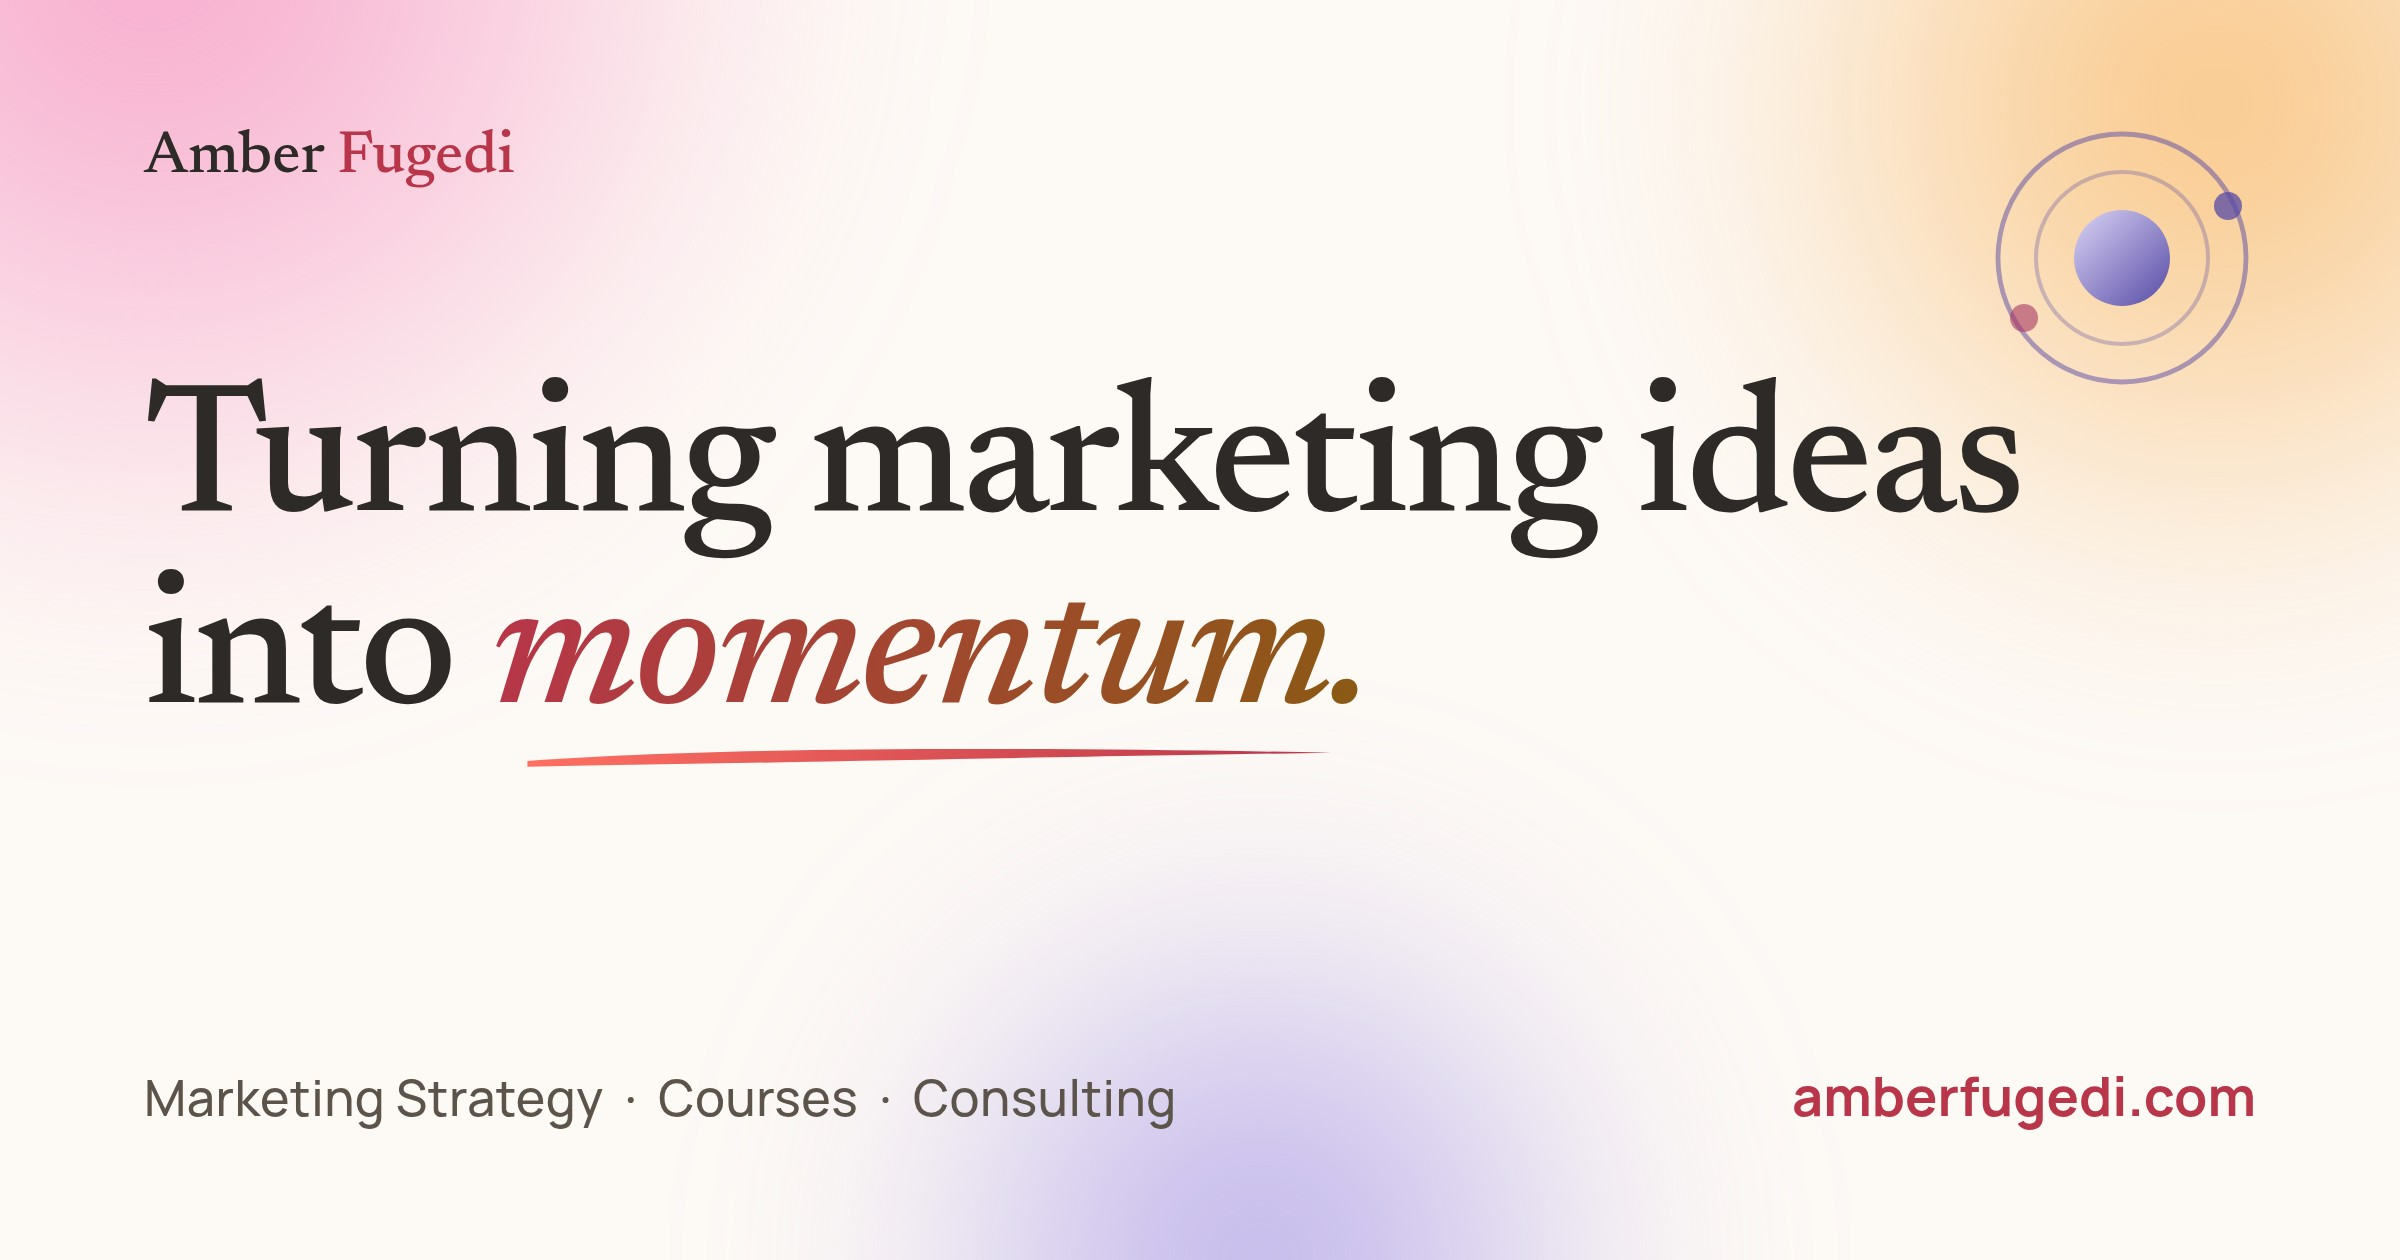
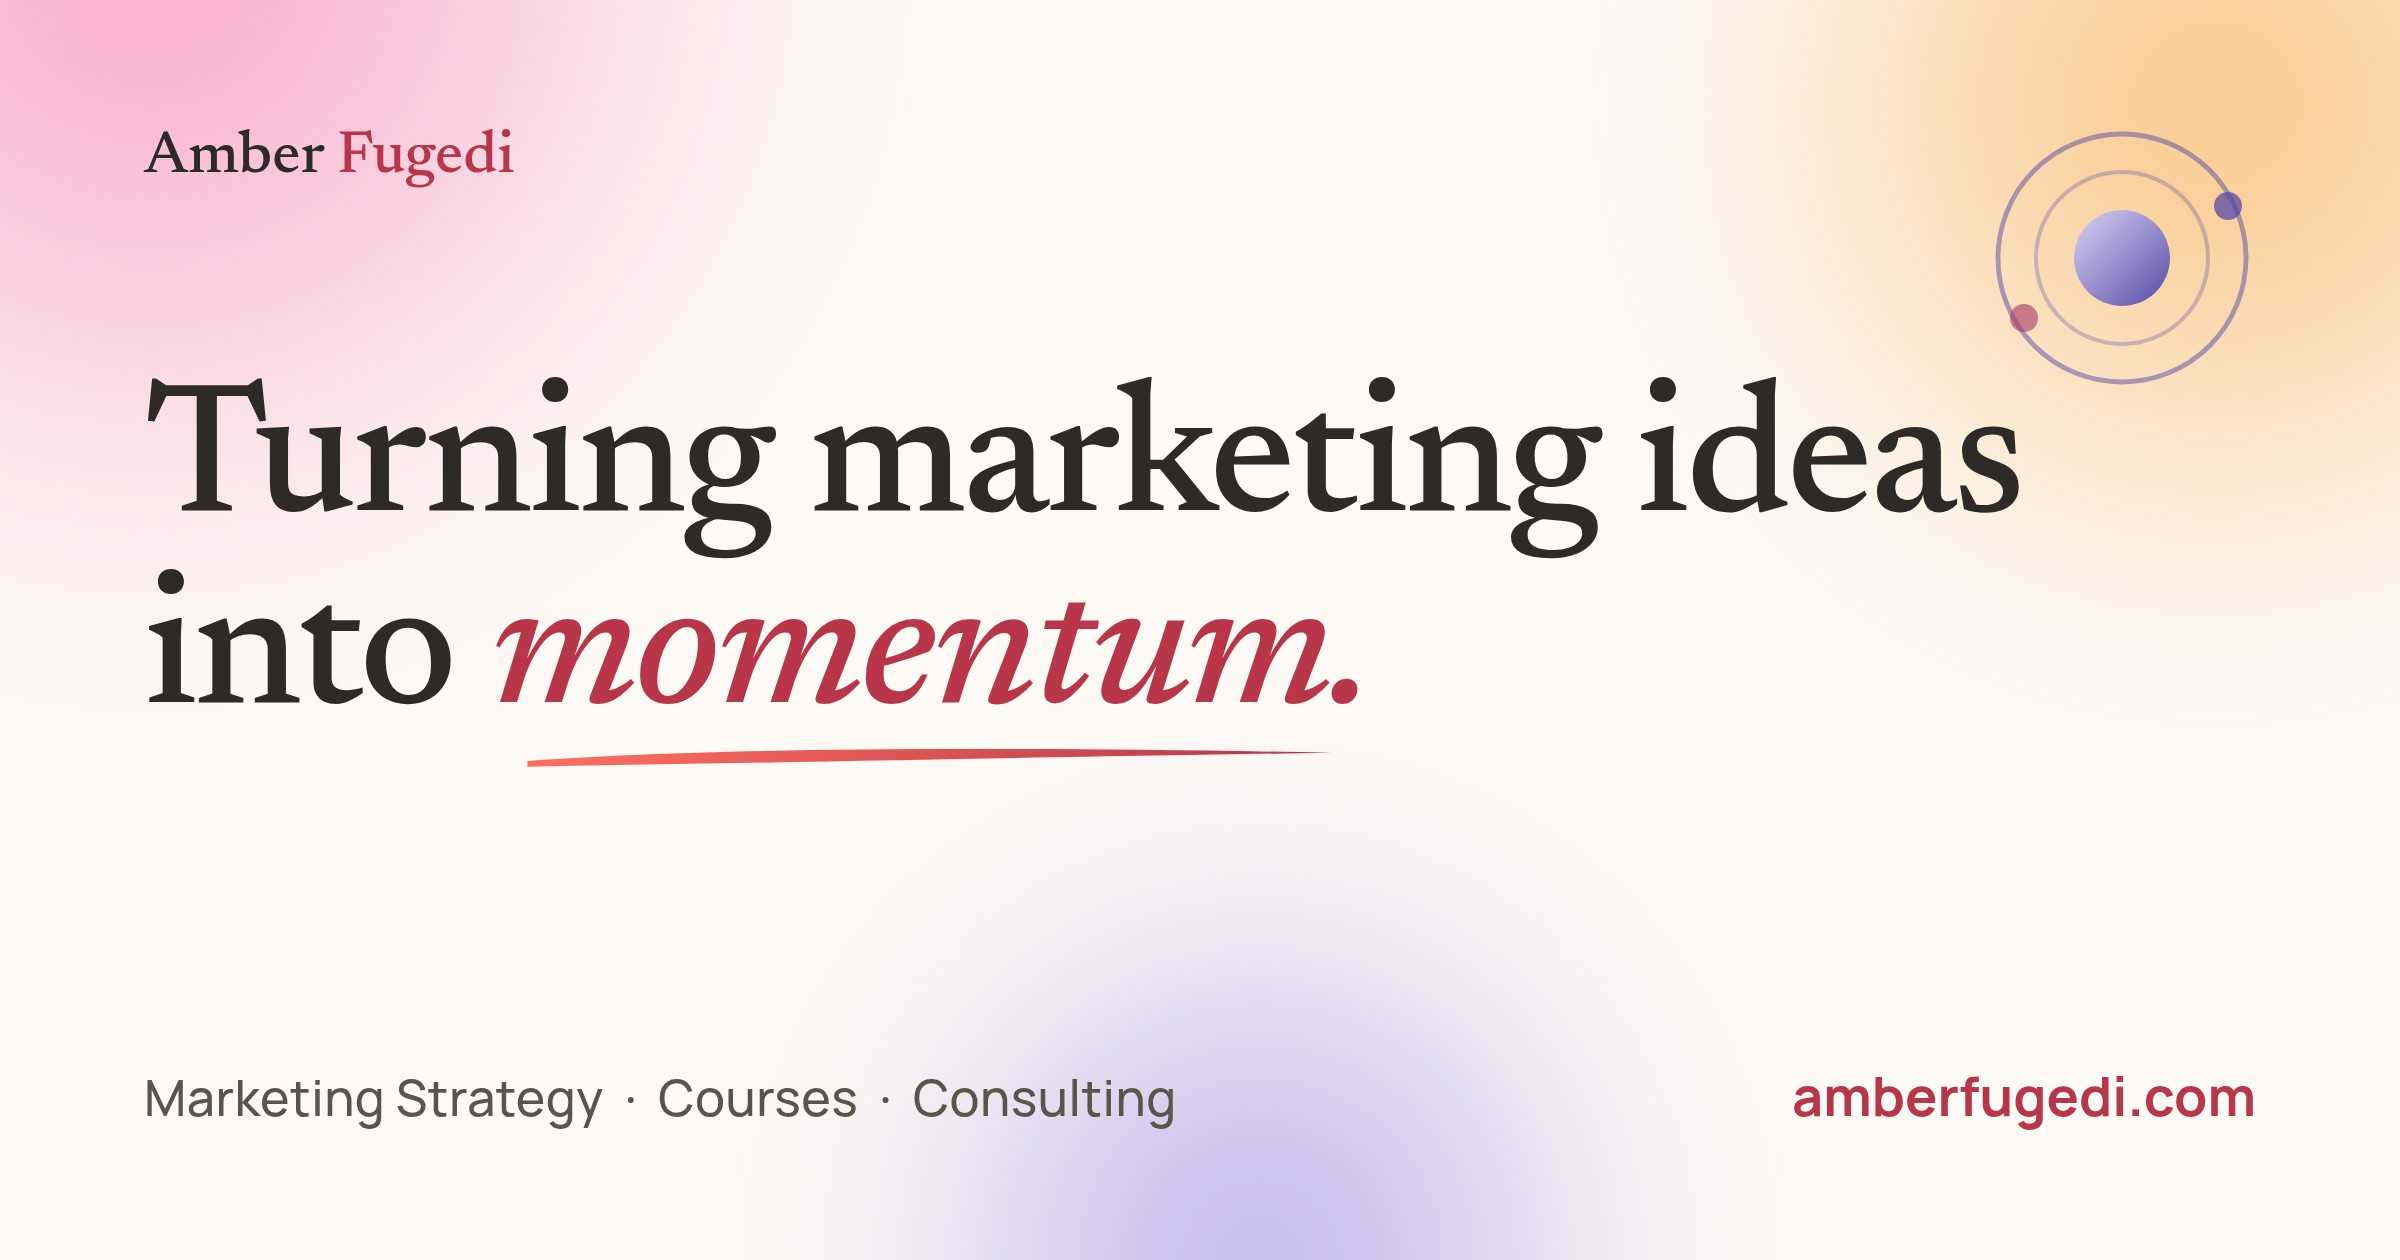
Pass Impeccable's 58-rule AI-tell detector clean
Ran pbakaus/impeccable's deterministic detector across the site.
Three findings, all fixed:
- Hero accent word gradient removed: MASTER already specified solid
  coral-deep italic, the CSS carried a stale gradient override; the
  og-image's momentum matches solid now too
- Timeline year ranges switched from spaced em dashes to en dashes
  (2023-Present style), matching the work-page tags and clearing the
  em-dash cadence rule
CLAUDE.md now includes the detector in the pre-ship checks.

Claude-Session: https://claude.ai/code/session_01Lhb4GUPgbEXnZWa11iUg6i

Changed region(s): [[0.3438, 0.4643, 0.5625, 0.5571]]

diff --git a/about.html b/about.html
@@ -144,47 +144,47 @@
 
         <div class="timeline">
           <div class="tl-entry reveal">
-            <span class="tl-years">2023 — Present</span>
+            <span class="tl-years">2023–Present</span>
             <h3>VP of Growth Marketing &amp; Enablement</h3>
             <p class="tl-org">PERQ · Remote</p>
             <p class="tl-desc">Joined in December 2023 to lead demand generation; promoted twice since, to VP in January 2026. Now on the executive team covering brand, demand generation, website and content strategy, sales enablement, and marketing operations, with budget oversight and team leadership. Also direct the company's Core Values Team.</p>
             <a class="arrow-link tl-link" href="work.html#perq">View the case study</a>
           </div>
           <div class="tl-entry reveal">
-            <span class="tl-years">2021 — 2023</span>
+            <span class="tl-years">2021–2023</span>
             <h3>Director of Marketing</h3>
             <p class="tl-org">Scanoptics</p>
             <p class="tl-desc">Rebuilt a legacy marketing function: 115% more opportunity creation ($1.3M to $2.8M pipeline) and 47% more inbound leads.</p>
             <a class="arrow-link tl-link" href="work.html#scanoptics">View the case study</a>
           </div>
           <div class="tl-entry reveal">
-            <span class="tl-years">2019 — Present</span>
+            <span class="tl-years">2019–Present</span>
             <h3>Freelance Marketing Consultant</h3>
             <p class="tl-org">Remote</p>
             <p class="tl-desc">Brand builds, marketing plans, local SEO, and paid campaigns for small businesses and startups, built to respect real-world budgets. Clients regularly see double-digit increases in qualified leads.</p>
           </div>
           <div class="tl-entry reveal">
-            <span class="tl-years">2019 — 2021</span>
+            <span class="tl-years">2019–2021</span>
             <h3>Marketing Director</h3>
             <p class="tl-org">StormwaterONE · Meriden, CT</p>
             <p class="tl-desc">95% more qualified leads, with paid media spend cut ~36% while impression share rose 35%.</p>
             <a class="arrow-link tl-link" href="work.html#stormwaterone">View the case study</a>
           </div>
           <div class="tl-entry reveal">
-            <span class="tl-years">2018 — Present</span>
+            <span class="tl-years">2018–Present</span>
             <h3>Marketing Consultant</h3>
             <p class="tl-org">MembersFirst CT Federal Credit Union · Meriden, CT</p>
             <p class="tl-desc">Product campaigns, Google and Meta advertising, and reporting that drive loan growth and member engagement.</p>
             <a class="arrow-link tl-link" href="work.html#membersfirst">View the case study</a>
           </div>
           <div class="tl-entry reveal">
-            <span class="tl-years">2017 — 2018</span>
+            <span class="tl-years">2017–2018</span>
             <h3>Marketing Director</h3>
             <p class="tl-org">eTraveler · Newington, CT</p>
             <p class="tl-desc">500+ qualified leads generated through national trade shows and event marketing.</p>
           </div>
           <div class="tl-entry reveal">
-            <span class="tl-years">2015 — 2017</span>
+            <span class="tl-years">2015–2017</span>
             <h3>Marketing Coordinator</h3>
             <p class="tl-org">Nutmeg Technologies · South Windsor, CT</p>
             <p class="tl-desc">Websites, landing pages, outbound prospecting, and marketing materials.</p>

diff --git a/styles.css b/styles.css
@@ -656,15 +656,6 @@ section { padding: 104px 0; }
   margin-bottom: 26px;
 }
 .hero h1 em { font-style: italic; color: var(--coral-deep); }
-@supports (-webkit-background-clip: text) {
-  .hero h1 em {
-    background: linear-gradient(100deg, var(--coral-deep), var(--courses-deep));
-    -webkit-background-clip: text;
-    background-clip: text;
-    -webkit-text-fill-color: transparent;
-    color: var(--coral-deep);
-  }
-}
 
 .hero .subhead {
   font-size: clamp(1.05rem, 2vw, 1.25rem);

diff --git a/CLAUDE.md b/CLAUDE.md
@@ -40,3 +40,8 @@ build step. Only external dependency: Google Fonts.
 - Verify visual changes by rendering with headless Chromium
   (`/opt/pw-browsers/chromium`) or Playwright; for animation changes,
   measure live (transforms over time), not just single frames.
+- Before shipping design/copy changes, run Impeccable's deterministic
+  AI-tell detector over the pages:
+  `npx impeccable detect *.html styles.css main.js`
+  (58 rules, no API key needed). The site currently passes clean;
+  keep it that way. Year ranges use en dashes, not em dashes.
